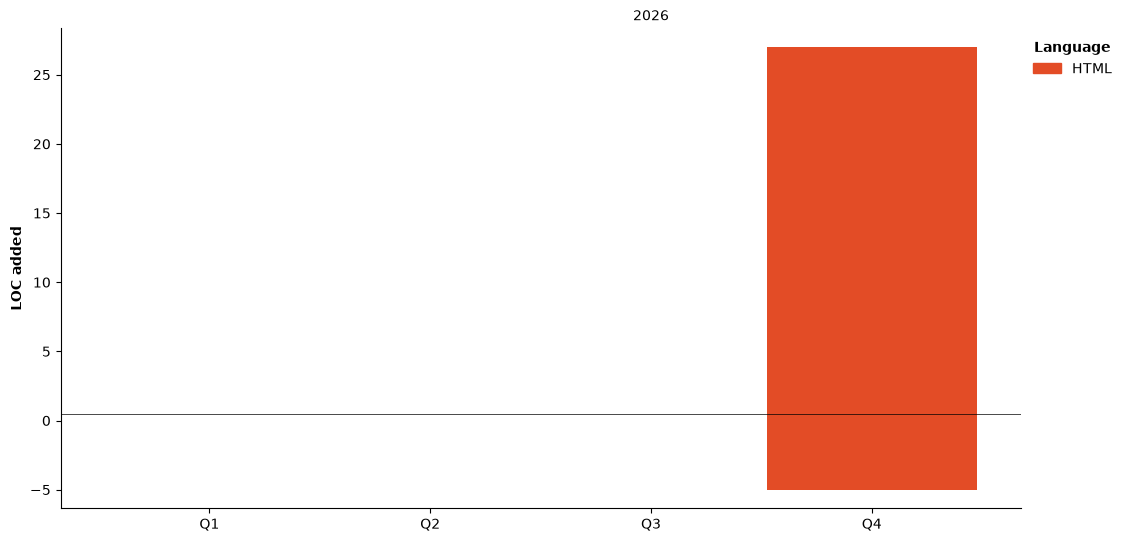
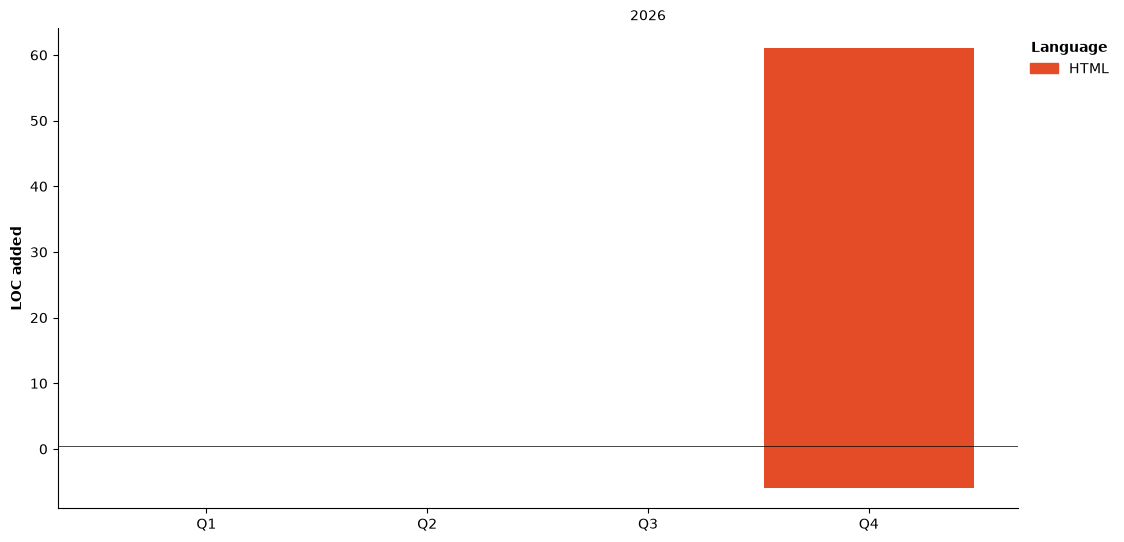
Updated with Dev Metrics

diff --git a/README.md b/README.md
@@ -1,4 +1,30 @@
 <!--START_SECTION:waka-->
-⏱ **Hours Logged**
+![Profile Views](http://img.shields.io/badge/Profile%20Views-0-blue?style=flat)
 
-[![wakatime](https://wakatime.com/badge/user/5305230e-3b30-4893-ba71-b450400bb630.svg)](https://wakatime.com/@5305230e-3b30-4893-ba71-b450400bb630)<!--END_SECTION:waka-->
+**🐱 My GitHub Data** 
+
+> 📦 682 Bytes Used in GitHub's Storage 
+ > 
+> 🏆 41 Contributions in the Year 2026
+ > 
+> 🚫 Not Opted to Hire
+ > 
+> 📜 1 Public Repository 
+ > 
+> 🔑 4 Private Repository 
+ > 
+**I Mostly Code in HTML** 
+
+```text
+HTML                     1 repo              █████████████████████████   100.00 % 
+```
+
+
+
+**Timeline**
+
+![Lines of Code chart](https://raw.githubusercontent.com/margarethoct/margarethoct/main/assets/bar_graph.png)
+
+
+ Last Updated on 10/11/2026 17:36:21 UTC
+<!--END_SECTION:waka-->
